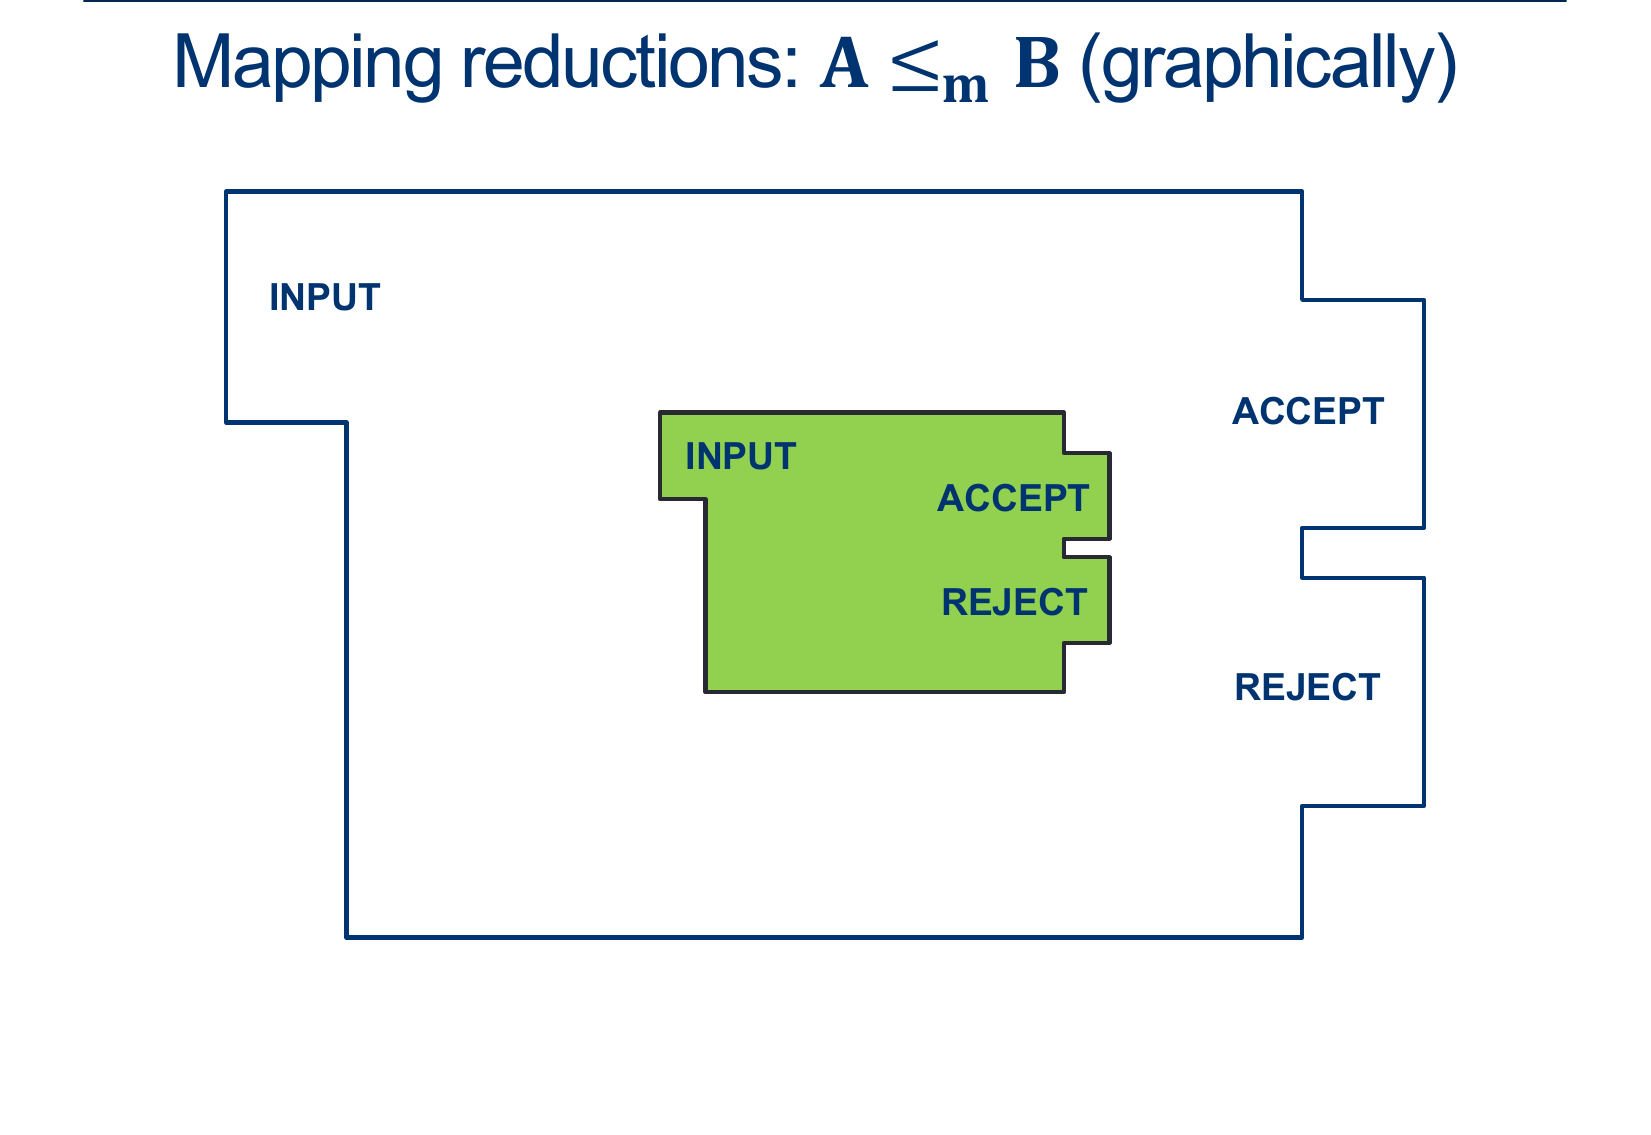
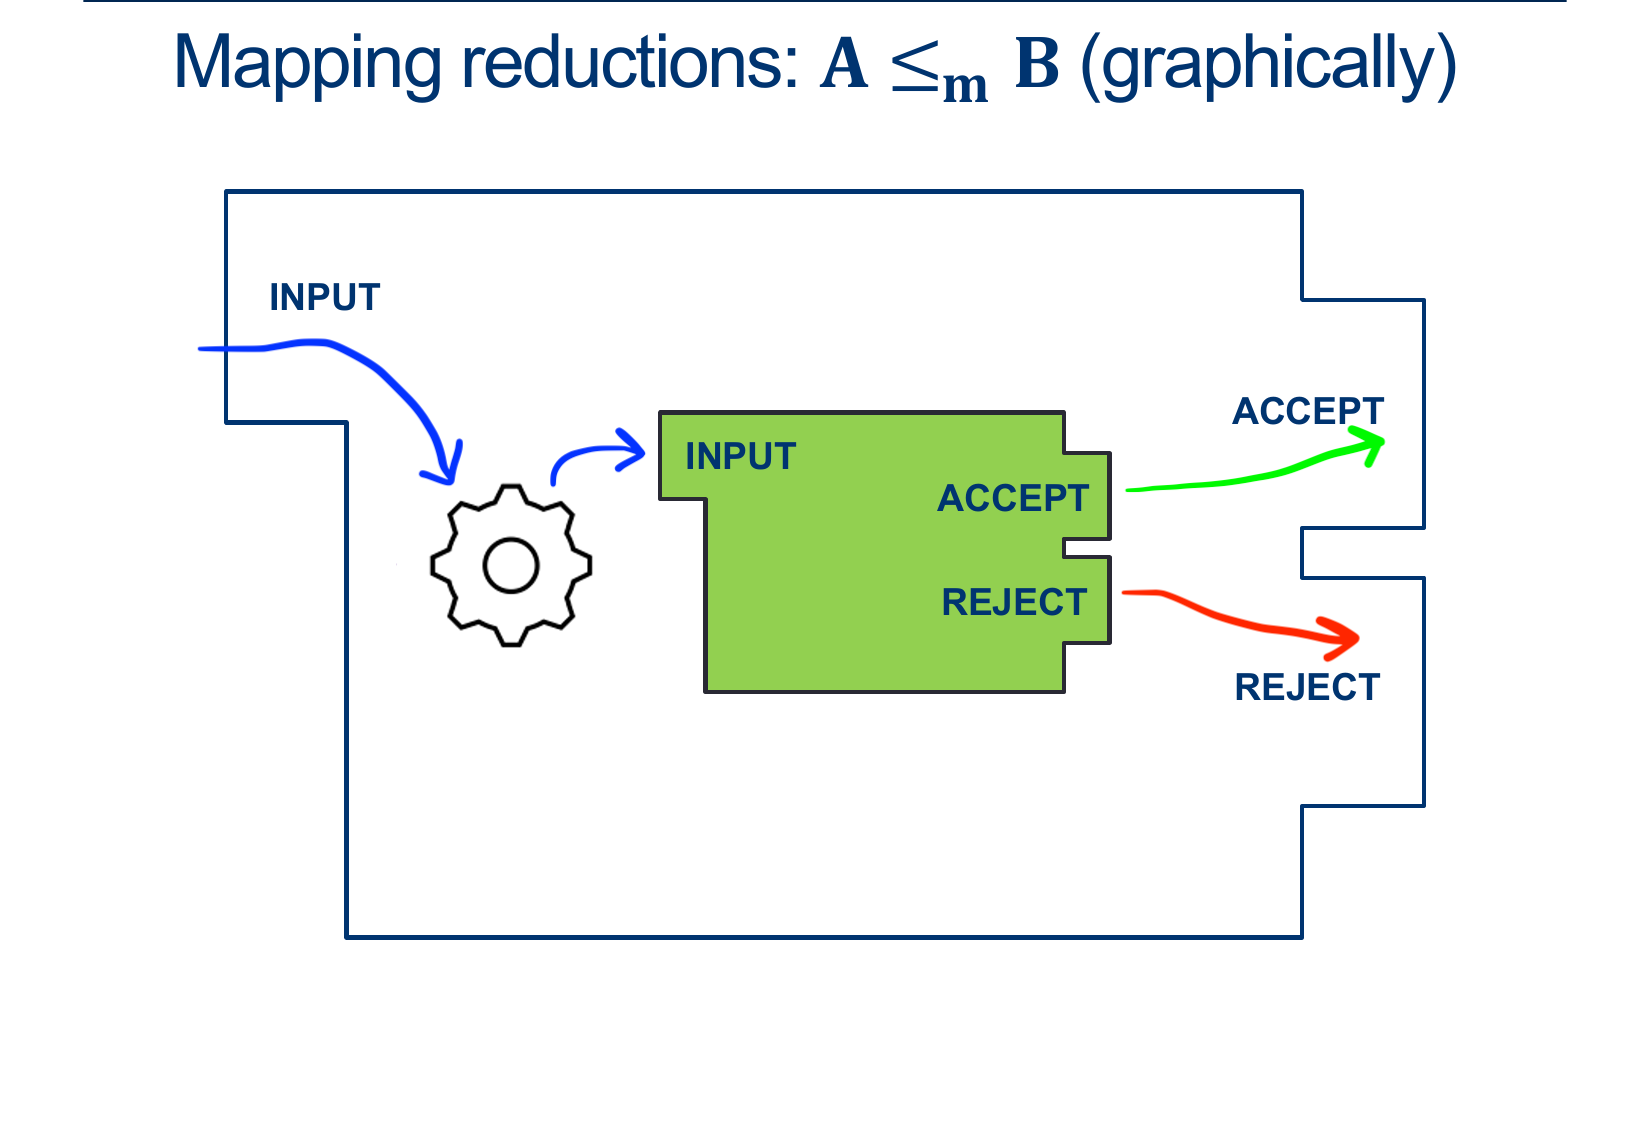
updated 250 schedule and lec26

diff --git a/classes/csc250/lectures/lectureNotes26.html b/classes/csc250/lectures/lectureNotes26.html
@@ -12,6 +12,11 @@
     <link rel="stylesheet" type="text/css" href="http://tikzjax.com/v1/fonts.css">
     <script src="http://tikzjax.com/v1/tikzjax.js"></script>
     <style>
+
+/*      html * {
+          color: #003470;
+        }*/
+
       .img-max {
         max-width: 500px;
         width:50%;
@@ -206,7 +211,8 @@
 
       This class we'll discuss:
       <ul>
-        <li>Recap: Mapping Reductions</li>
+        <li>Recap: A reduction issue</li>
+        <li>Mapping Reductions</li>
         <li>Rice's Theorem</li>
       </ul>
 
@@ -216,8 +222,65 @@
 
       <p><br></p><hr><p><br></p>
 
+      <h2>A Reduction Issuue</h2>
+
+      <p>
+
+        <br><br>
+            <big><span style="color:#003470;font-size:150%">The Emptiness Problem</span></big>
+
+            <li>Theorem: \(\overline{EMPTY-TM}\) is recognizable</li>
+            <li>Theorem: \(EMPTY-TM\) is undecidable</li>
+            <li>Corollary: \(EMPTY-TM\)is <b>unrecognizable</b></li>
+            <li>Proof: If \(\overline{EMPTY-TM}\) and \(EMPTY-TM\) recognizable,</li>
+            <li>that would imply \(EMPTY-TM\) is decidable </li>            
+
+
+            <br><br><br><br>
+
+            <big><span style="color:#003470;font-size:100%">This means our Turing Reduction Can't catch if the fact that we're reducing outside the same class of languages
+              <br><br>
+
+            Issue with EMPTY ≤ ¬EMPTY is that the “Domain” of one is complement of the “Domain” of the other!
+            </span></big>
+
+            <br><br><br><br>
+
+            <big><span style="color:#003470;font-size:100%">However, we've actually seen a STRONGER type of reduction</span></big>
+
+            <br><br>
+
+        <br><br>
+        <img id="image" class="img-responsive" src="../figures/lecture25/MAP-19.png" alt="" style="width:80%">
+        <br><br>
+
+        <big><span style="color:#003470;font-size:100%">
+        Here, The “Domain” of EMPTY corresponds to the “Domain” of EQ!
+        </span></big>
+
+        <br><br><br><br>
+
+
+
+        <br><br>
+        <img id="image" class="img-responsive" src="../figures/lecture25/MAP-20.png" alt="" style="width:80%">
+        <br><br>
+
+
+        <big><span style="color:#003470;font-size:100%">
+        We could rewrite this as a simple conversion:
+        <br>
+        from any word in EmptyTM to a word in EQ_TM 
+        (and similarly a word not in EmptyTM to a word not in EQ_TM). 
+        <br><br>
+        We call this a <b>mapping reduction</b>, and denote it  \( \leq_m\)
+        </span></big>
+
+      </p>
+
 
       <p><br></p><hr><p><br></p>
+
 
       <h2>Mapping Reductions</h2>
 
@@ -243,39 +306,76 @@
         <img id="image" class="img-responsive" src="../figures/lecture25/MAP-26.png" alt="" style="width:80%">
         <br><br>
 
-        
-They’re a way for us to relate problems to one another <br>
-If A reduces to B and B is easy => A is easy too <br>
-More common: if A reduces to be and A is hard => B is hard too <br><br>
+        <big><span style="color:#003470;font-size:100%">
+                
+        They’re a way for us to relate problems to one another 
+        <br><br>
 
-We started with ATM (which we proved was undecidable using a big ugly contradiction ) <br>
-Reduced ATM to HALT (ATM ≤ HALT): we showed that if we had a decider HALT, we could use that to decide ATM (so that means HALT must also be undecidable) <br><br>
+        If A reduces to B and B is easy => A is easy too <br>
+        More common: if A reduces to be and A is hard => B is hard too <br><br>
 
-We did the same thing with ATM-01 <br>
-And EmptyTM <br>
-Later, we also showed that if we had a decider for HALT, we could use that to decide EmptyTM  <br>
-And that if we had a decider for EQ_TM, we could yet again decide EmptyTM (mapping)
+        We started with ATM (which we proved was undecidable using a big ugly contradiction ) 
+        <br>
+        Reduced ATM to HALT (ATM ≤ HALT): we showed that if we had a decider HALT, we could use that to decide ATM 
+        <br>
+        (so that means HALT must also be undecidable) 
+        <br><br>
+
+        We did the same thing with ATM-01 <br>
+        And EmptyTM 
+        <br><br>
+        Later, we also showed that if we had a decider for HALT, we could use that to decide EmptyTM  <br>
+        And that if we had a decider for EQ_TM, we could yet again decide EmptyTM (mapping)
         </span></big>        
 
-        <br><br><br><br><br><br>
+        <br><br><br><br><br><br><br><br>
 
         <br><br>
         <img id="image" class="img-responsive" src="../figures/lecture25/MAP-27.png" alt="" style="width:80%">
         <br><br>
 
-<!-- 
-HALT <=m SOMETIMES-HALTS
-We want to show that we can take any input and transform it such that:
-if the input was a word in HALT (<M,w>), the output is a word (<M>) in SOMETIMES-HALTS
-if the input was NOT a word in HALT, the output is NOT a word in SOMETIMES-HALTS
-This suggests that we want to build a helper machine that “amplifies” the behavior of M on w:
-Ignore the input x
-Run M on w ADWID
-The only way the helper halts is if M halts on w (if this is the case, it halts on EVERY input). Otherwise, it loops.
-In other words, if <M,w> was in HALT, then the helper will be in SOMETIMES-HALTS, and if <M,w> is NOT in HALT, then the helper won’t be in SOMETIMES-HALT.
-Thus, we’ve defined a mapping that from problems in HALT to problems in SOMETIMES-HALTS, proving that SOMETIMES-HALTS is at least as difficult as HAL, and so must be undecidable.
-         -->
 
+        <div class="mx-lg-5">
+          <span style='color:#06a015'><b><big>Activity 1</big></b></span> [2 minutes] How would you do this reduction?:
+          <details>
+            <summary>(Wait; then Click)<br><br></summary> 
+              HALT <=m SOMETIMES-HALTS
+              <br><br>
+              We want to show that we can take any input and transform it such that:
+              <br>
+              if the input was a word in HALT \((< M,w>)\), the output is a word \((< M>)\) in SOMETIMES-HALTS
+              <br><br>
+
+              if the input was NOT a word in HALT, the output is NOT a word in SOMETIMES-HALTS
+              <br><br>
+
+              This suggests that we want to build a helper machine that “amplifies” the behavior of M on w:
+              <br><br>
+                    \[
+                      \begin{align*}
+                        &D_{HALT}:\\
+                        & \text{ On input $ < M,w > $ }:\\
+                        & \text{ Create (but don't run) $HELPER_{M,w}$ such that}\\
+                        & \quad \text{ On input $ < X > $ }:\\
+                        & \quad \quad \text{ Ignore $ < X > $ }\\
+                        & \quad \quad \text{ Run M on w ADWID}\\
+                        & \text{ Now Run $D_{S-H}$ on input $ < HELPER_{M,w} > $ ADWID}\\
+                      \end{align*}
+                    \]              
+
+              <br><br>
+
+              The only way the helper halts is if M halts on w (if this is the case, it halts on EVERY input). Otherwise, it loops.
+              <br>
+              In other words, if \(< M,w>\) was in HALT, then the helper will be in SOMETIMES-HALTS, 
+              <br>
+              and if \(< M,w>\) is NOT in HALT, then the helper won’t be in SOMETIMES-HALT.
+              <br><br>
+              Thus, we’ve defined a mapping that from problems in HALT to problems in SOMETIMES-HALTS, proving that SOMETIMES-HALTS is at least as difficult as HAL, and so must be undecidable.            
+          <br><br>
+          </details>
+
+<!-- 
         <br><br>
         <img id="image" class="img-responsive" src="../figures/lecture25/MAP-28.png" alt="" style="width:80%">
         <br><br>
@@ -284,6 +384,7 @@ Thus, we’ve defined a mapping that from problems in HALT to problems in SOMETI
         <big><span style="color:#003470;font-size:100%">
           Next: Rice's Theorem
         </span></big>
+         -->
 </p>      
 
 
@@ -311,13 +412,18 @@ Thus, we’ve defined a mapping that from problems in HALT to problems in SOMETI
         <br><br>
         <img id="image" class="img-responsive" src="../figures/lecture26/Rice-05.png" alt="" style="width:80%">
         <br><br>
+
+        <big><span style="color:#003470;font-size:150%">
+          Our previous example:
+        </span></big>
+
         <br><br>
         <img id="image" class="img-responsive" src="../figures/lecture26/Rice-06.png" alt="" style="width:80%">
         <br><br>
 
 
         <br><br>
-        <img id="image" class="img-responsive" src="../figures/lecture26/Rice-07.png" alt="" style="width:60%">
+        <img id="image" class="img-responsive" src="../figures/lecture26/Rice-07.png" alt="" style="width:80%">
         <br><br>
         <br><br>
         <img id="image" class="img-responsive" src="../figures/lecture26/Rice-08.png" alt="" style="width:80%">
@@ -400,7 +506,7 @@ Because P is nontrivial.
 <br><br>
 
         <br><br>
-        <img id="image" class="img-responsive" src="../figures/lecture26/mapping2.png" alt="" style="width:80%">
+        <img id="image" class="img-responsive" src="../figures/lecture26/mapping2.png" alt="" style="width:60%">
         <br><br>
 
 
@@ -409,21 +515,55 @@ Because P is nontrivial.
         <img id="image" class="img-responsive" src="../figures/lecture26/Rice-19.png" alt="" style="width:80%">
         <br><br>
 
-<big><span style="color:#003470;font-size:100%">
-We have M1 not in P, M2 in P <br>
-<br>
-Goal:<br>
-on any input x:<br>
-if \(x = < M,w >\) ∈ ATM, map to something in MP <br>
-otherwise, map to something not in MP (like M1)<br>
-Easy part: If x isn’t of the form \(< M,w >\) return something ∉ MP, like \(< M1>\).
-</span></big>
+        <big><span style="color:#003470;font-size:100%">
+        We have M1 not in P, M2 in P <br>
+        <br>
+        Goal:<br>
+        on any input x:<br>
+        if \(x = < M,w >\) ∈ ATM, map to something in MP <br>
+        otherwise, map to something not in MP (like M1)
+        <br><br>
+        Easy part: If x isn’t of the form \(< M,w >\) return something ∉ MP, like \(< M1>\).
+        <br><br>
+        Harder part: If x IS of the form \(< M,w >\) , we have two cases: if it’s in ATM, we want to map it to a machine in MP and if it’s NOT in ATM, we want to map it to something not in MP.
+        </span></big>
 
 <br><br><br>
 
         <br><br>
         <img id="image" class="img-responsive" src="../figures/lecture26/Rice-20.png" alt="" style="width:80%">
         <br><br>
+
+        <big><span style="color:#003470;font-size:100%">
+        Time to get tricksy:
+        if x is of the form \(< M,w >\) , then return the following machine: \(< M^{\prime}_{M,w} >\)  
+        <br><br>
+        \(< M^{\prime}_{M,w} >\) : 
+          <br>
+        On any input y: <br>
+        Run M on w.  #(If stuck on a loop, this is M1!)<br>
+        If M accepts w then run M2 on y ADWID<br>
+        If M rejects w, REJECT.<br> 
+        <br><br>
+        If M accepts w, what is \(< M^{\prime}_{M,w} >\)’s language? 
+        <br>
+        exactly the same as M2’s, which means this machine is in MP <br>
+        (If M accepts w, then \(< M^{\prime}_{M,w} >\) is just the result of M2) 
+        <br><br>
+
+        If M doesn’t accept w, what is its language? 
+        <br>
+        the empty language, exactly like M1, which means NOT in MP
+        <br>
+        (If M doesn't accept w,\(< M^{\prime}_{M,w} >\) is just M1)
+
+        <br><br>
+        Therefore, ATM \( \leq_m\) MP using this process. 
+        <br>
+        This implies that MP is undecidable
+        </span></big>
+
+        <br><br><br>
 
 <!-- 
       </p>
